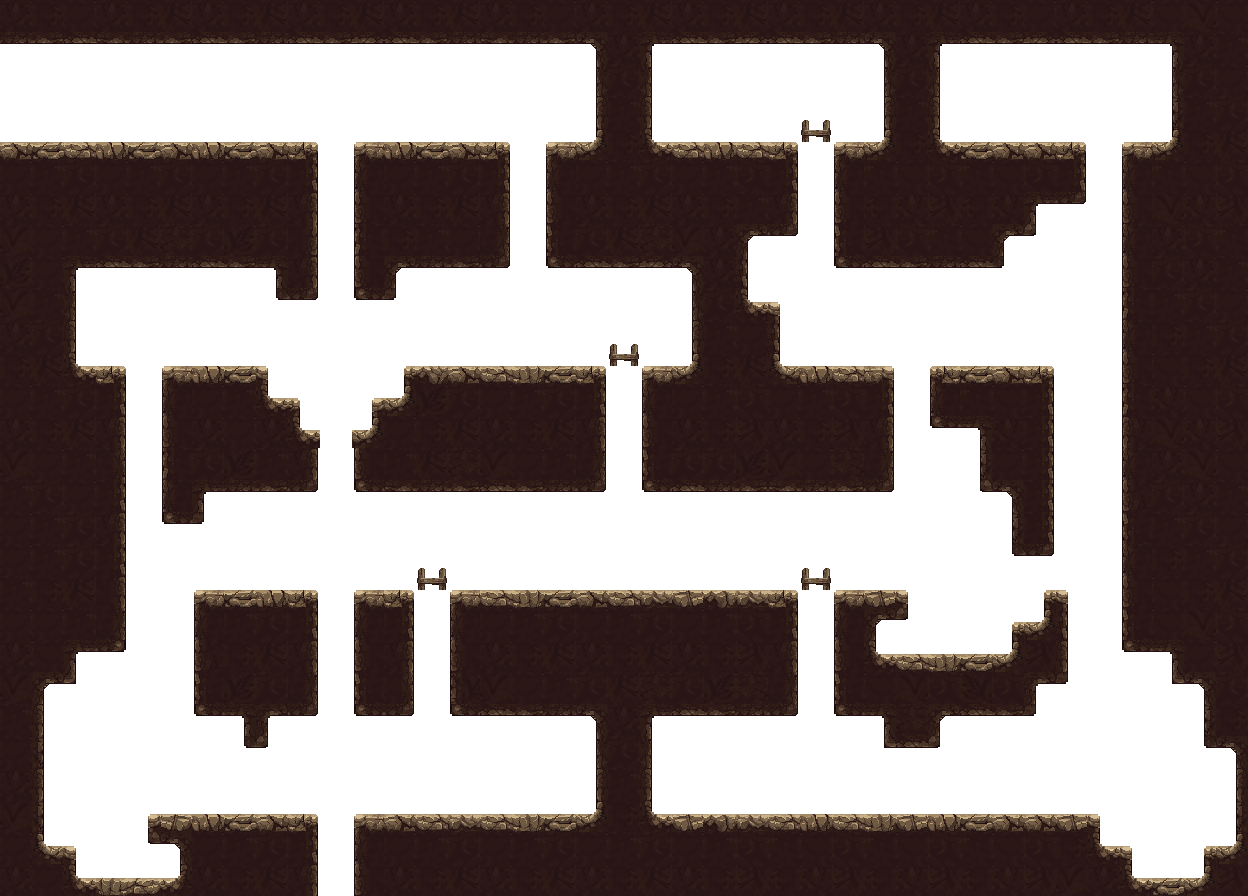
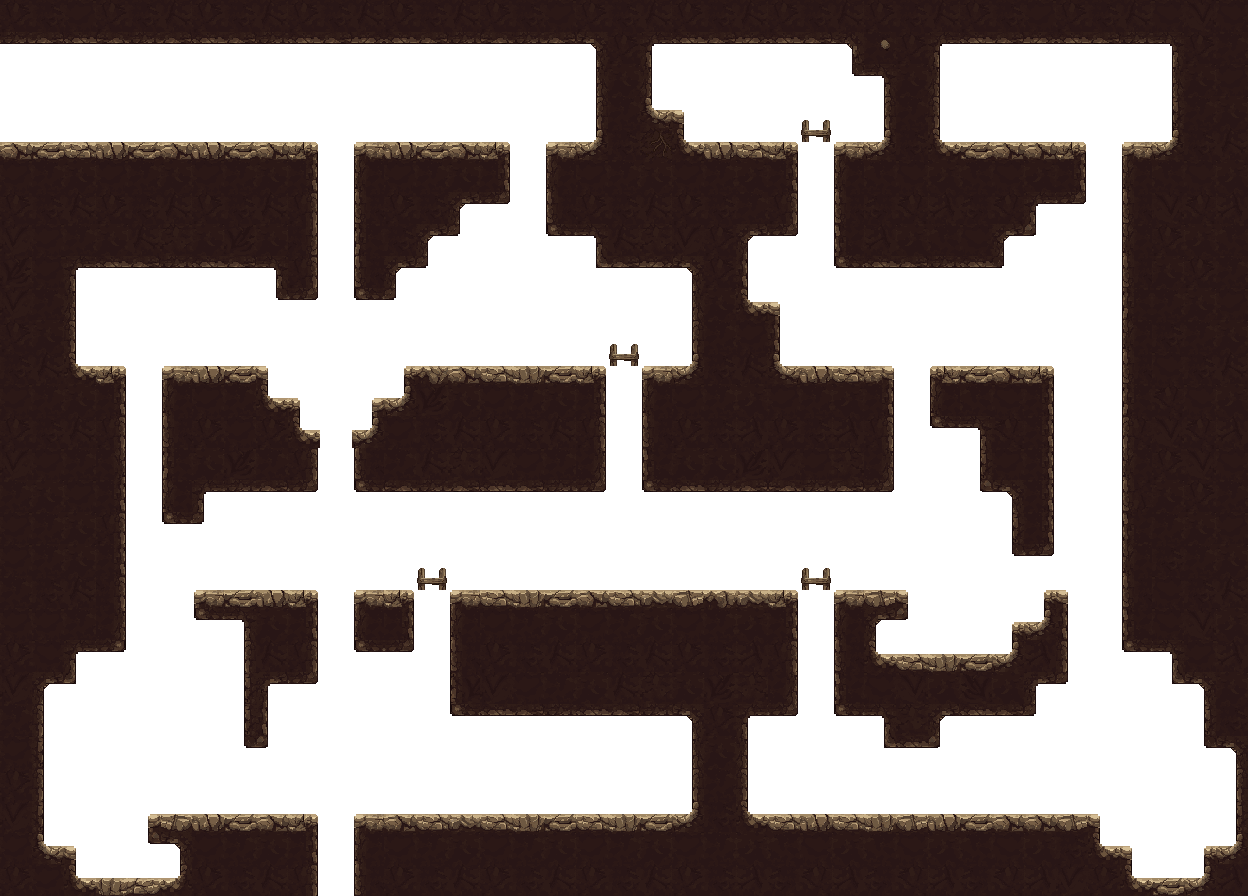
Update world position inputs and direction control labels for improved navigation

diff --git a/css/main.css b/css/main.css
@@ -270,7 +270,7 @@ input {
 }
 
 #position-32:checked ~ .game .world {
-  --world-offset: -1440px;
+  --world-offset: -1248px;
   --world-offset-y: -1568px;
 }
 
@@ -648,14 +648,20 @@ input {
   transition-duration: 1.2s;
 }
 
+#position-32--from-31:checked ~ .game .world {
+  --world-offset: -1248px;
+  --world-offset-y: -1568px;
+  transition-duration: 1.2s;
+}
+
 #position-30--from-31:checked ~ .game .world {
   --world-offset: -864px;
   --world-offset-y: -1568px;
   transition-duration: 1.2s;
 }
 
-#position-33--from-32:checked ~ .game .world {
-  --world-offset: -1632px;
+#position-31--from-32:checked ~ .game .world {
+  --world-offset: -1056px;
   --world-offset-y: -1568px;
   transition-duration: 1.2s;
 }
@@ -668,12 +674,6 @@ input {
 
 #position-34--from-33:checked ~ .game .world {
   --world-offset: -1824px;
-  --world-offset-y: -1568px;
-  transition-duration: 1.2s;
-}
-
-#position-32--from-33:checked ~ .game .world {
-  --world-offset: -1440px;
   --world-offset-y: -1568px;
   transition-duration: 1.2s;
 }
@@ -2129,6 +2129,15 @@ input {
   transition-duration: 1.2s;
 }
 
+#position-32--from-31:checked ~ .game .player__sprite {
+  background-image: url("../assets/characters/with-backpack/base/base-right.png");
+  animation: player-walk-from-31-to-32 0.6s steps(1, end) 2;
+}
+
+#position-32--from-31:checked ~ .game .player {
+  transition-duration: 1.2s;
+}
+
 #position-30--from-31:checked ~ .game .player__sprite {
   background-image: url("../assets/characters/with-backpack/base/base-left.png");
   animation: player-walk-from-31-to-30 0.6s steps(1, end) 2;
@@ -2138,12 +2147,12 @@ input {
   transition-duration: 1.2s;
 }
 
-#position-33--from-32:checked ~ .game .player__sprite {
-  background-image: url("../assets/characters/with-backpack/base/base-right.png");
-  animation: player-walk-from-32-to-33 0.6s steps(1, end) 2;
+#position-31--from-32:checked ~ .game .player__sprite {
+  background-image: url("../assets/characters/with-backpack/base/base-left.png");
+  animation: player-walk-from-32-to-31 0.6s steps(1, end) 2;
 }
 
-#position-33--from-32:checked ~ .game .player {
+#position-31--from-32:checked ~ .game .player {
   transition-duration: 1.2s;
 }
 
@@ -2162,15 +2171,6 @@ input {
 }
 
 #position-34--from-33:checked ~ .game .player {
-  transition-duration: 1.2s;
-}
-
-#position-32--from-33:checked ~ .game .player__sprite {
-  background-image: url("../assets/characters/with-backpack/base/base-left.png");
-  animation: player-walk-from-33-to-32 0.6s steps(1, end) 2;
-}
-
-#position-32--from-33:checked ~ .game .player {
   transition-duration: 1.2s;
 }
 
@@ -2963,6 +2963,20 @@ input {
     background-image: url("../assets/characters/with-backpack/walk/walk-left/frame_004.png");
   }
 }
+@keyframes player-walk-from-31-to-32 {
+  0% {
+    background-image: url("../assets/characters/with-backpack/walk/walk-right/frame_001.png");
+  }
+  25% {
+    background-image: url("../assets/characters/with-backpack/walk/walk-right/frame_002.png");
+  }
+  50% {
+    background-image: url("../assets/characters/with-backpack/walk/walk-right/frame_003.png");
+  }
+  75%, 100% {
+    background-image: url("../assets/characters/with-backpack/walk/walk-right/frame_004.png");
+  }
+}
 @keyframes player-walk-from-31-to-30 {
   0% {
     background-image: url("../assets/characters/with-backpack/walk/walk-left/frame_001.png");
@@ -2977,18 +2991,18 @@ input {
     background-image: url("../assets/characters/with-backpack/walk/walk-left/frame_004.png");
   }
 }
-@keyframes player-walk-from-32-to-33 {
+@keyframes player-walk-from-32-to-31 {
   0% {
-    background-image: url("../assets/characters/with-backpack/walk/walk-right/frame_001.png");
+    background-image: url("../assets/characters/with-backpack/walk/walk-left/frame_001.png");
   }
   25% {
-    background-image: url("../assets/characters/with-backpack/walk/walk-right/frame_002.png");
+    background-image: url("../assets/characters/with-backpack/walk/walk-left/frame_002.png");
   }
   50% {
-    background-image: url("../assets/characters/with-backpack/walk/walk-right/frame_003.png");
+    background-image: url("../assets/characters/with-backpack/walk/walk-left/frame_003.png");
   }
   75%, 100% {
-    background-image: url("../assets/characters/with-backpack/walk/walk-right/frame_004.png");
+    background-image: url("../assets/characters/with-backpack/walk/walk-left/frame_004.png");
   }
 }
 @keyframes player-walk-from-33-to-34 {
@@ -3003,20 +3017,6 @@ input {
   }
   75%, 100% {
     background-image: url("../assets/characters/with-backpack/walk/walk-right/frame_004.png");
-  }
-}
-@keyframes player-walk-from-33-to-32 {
-  0% {
-    background-image: url("../assets/characters/with-backpack/walk/walk-left/frame_001.png");
-  }
-  25% {
-    background-image: url("../assets/characters/with-backpack/walk/walk-left/frame_002.png");
-  }
-  50% {
-    background-image: url("../assets/characters/with-backpack/walk/walk-left/frame_003.png");
-  }
-  75%, 100% {
-    background-image: url("../assets/characters/with-backpack/walk/walk-left/frame_004.png");
   }
 }
 @keyframes player-walk-from-34-to-35 {
@@ -3926,6 +3926,13 @@ input {
   transition: opacity 0s 0.6s, visibility 0s 0.6s;
 }
 
+#position-31:checked ~ .game .direction-controls__button--right[data-position="31"] {
+  opacity: 1;
+  visibility: visible;
+  pointer-events: auto;
+  transition: opacity 0s 0.6s, visibility 0s 0.6s;
+}
+
 #position-31:checked ~ .game .direction-controls__button--left[data-position="31"] {
   opacity: 1;
   visibility: visible;
@@ -3933,7 +3940,7 @@ input {
   transition: opacity 0s 0.6s, visibility 0s 0.6s;
 }
 
-#position-32:checked ~ .game .direction-controls__button--right[data-position="32"] {
+#position-32:checked ~ .game .direction-controls__button--left[data-position="32"] {
   opacity: 1;
   visibility: visible;
   pointer-events: auto;
@@ -3948,13 +3955,6 @@ input {
 }
 
 #position-33:checked ~ .game .direction-controls__button--right[data-position="33"] {
-  opacity: 1;
-  visibility: visible;
-  pointer-events: auto;
-  transition: opacity 0s 0.6s, visibility 0s 0.6s;
-}
-
-#position-33:checked ~ .game .direction-controls__button--left[data-position="33"] {
   opacity: 1;
   visibility: visible;
   pointer-events: auto;
@@ -4633,13 +4633,6 @@ input {
   transition: opacity 0s 1.8s, visibility 0s 1.8s;
 }
 
-#position-33--from-25:checked ~ .game .direction-controls__button--left[data-position="33"] {
-  opacity: 1;
-  visibility: visible;
-  pointer-events: auto;
-  transition: opacity 0s 1.8s, visibility 0s 1.8s;
-}
-
 #position-24--from-25:checked ~ .game .direction-controls__button--right[data-position="24"] {
   opacity: 1;
   visibility: visible;
@@ -4801,6 +4794,13 @@ input {
   transition: opacity 0s 1.8s, visibility 0s 1.8s;
 }
 
+#position-31--from-30:checked ~ .game .direction-controls__button--right[data-position="31"] {
+  opacity: 1;
+  visibility: visible;
+  pointer-events: auto;
+  transition: opacity 0s 1.2s, visibility 0s 1.2s;
+}
+
 #position-31--from-30:checked ~ .game .direction-controls__button--left[data-position="31"] {
   opacity: 1;
   visibility: visible;
@@ -4816,6 +4816,13 @@ input {
 }
 
 #position-29--from-30:checked ~ .game .direction-controls__button--left[data-position="29"] {
+  opacity: 1;
+  visibility: visible;
+  pointer-events: auto;
+  transition: opacity 0s 1.2s, visibility 0s 1.2s;
+}
+
+#position-32--from-31:checked ~ .game .direction-controls__button--left[data-position="32"] {
   opacity: 1;
   visibility: visible;
   pointer-events: auto;
@@ -4843,21 +4850,14 @@ input {
   transition: opacity 0s 1.2s, visibility 0s 1.2s;
 }
 
-#position-33--from-32:checked ~ .game .direction-controls__button--up[data-position="33"] {
+#position-31--from-32:checked ~ .game .direction-controls__button--right[data-position="31"] {
   opacity: 1;
   visibility: visible;
   pointer-events: auto;
   transition: opacity 0s 1.2s, visibility 0s 1.2s;
 }
 
-#position-33--from-32:checked ~ .game .direction-controls__button--right[data-position="33"] {
-  opacity: 1;
-  visibility: visible;
-  pointer-events: auto;
-  transition: opacity 0s 1.2s, visibility 0s 1.2s;
-}
-
-#position-33--from-32:checked ~ .game .direction-controls__button--left[data-position="33"] {
+#position-31--from-32:checked ~ .game .direction-controls__button--left[data-position="31"] {
   opacity: 1;
   visibility: visible;
   pointer-events: auto;
@@ -4899,13 +4899,6 @@ input {
   transition: opacity 0s 1.2s, visibility 0s 1.2s;
 }
 
-#position-32--from-33:checked ~ .game .direction-controls__button--right[data-position="32"] {
-  opacity: 1;
-  visibility: visible;
-  pointer-events: auto;
-  transition: opacity 0s 1.2s, visibility 0s 1.2s;
-}
-
 #lift-10-36-unlocked:checked ~ #position-35--from-34:checked ~ .game .direction-controls__button--right[data-position="35"] {
   opacity: 1;
   visibility: visible;
@@ -4928,13 +4921,6 @@ input {
 }
 
 #position-33--from-34:checked ~ .game .direction-controls__button--right[data-position="33"] {
-  opacity: 1;
-  visibility: visible;
-  pointer-events: auto;
-  transition: opacity 0s 1.2s, visibility 0s 1.2s;
-}
-
-#position-33--from-34:checked ~ .game .direction-controls__button--left[data-position="33"] {
   opacity: 1;
   visibility: visible;
   pointer-events: auto;

diff --git a/index.html b/index.html
@@ -219,8 +219,8 @@
 <input type="radio" name="position" id="position-28--from-29" class="world-position-input" />
 <input type="radio" name="position" id="position-21--from-30" class="world-position-input" />
 <input type="radio" name="position" id="position-31--from-30" class="world-position-input" />
-<input type="radio" name="position" id="position-29--from-30" class="world-position-input" />
-<input type="radio" name="position" id="position-30--from-31" class="world-position-input" />
+<input type="radio" name="position" id="position-32--from-31" class="world-position-input" />
+<input type="radio" name="position" id="position-31--from-32" class="world-position-input" />
 <input type="radio" name="position" id="position-33--from-32" class="world-position-input" />
 <input type="radio" name="position" id="position-25--from-33" class="world-position-input" />
 <input type="radio" name="position" id="position-34--from-33" class="world-position-input" />
@@ -599,16 +599,16 @@
     data-position="30" for="position-31--from-30">▶</label>
 <label class="direction-controls__button direction-controls__button--left direction-controls__button--edge"
     data-position="30" for="position-29--from-30">◀</label>
+<label class="direction-controls__button direction-controls__button--right direction-controls__button--edge"
+    data-position="31" for="position-32--from-31">▶</label>
 <label class="direction-controls__button direction-controls__button--left direction-controls__button--edge"
     data-position="31" for="position-30--from-31">◀</label>
-<label class="direction-controls__button direction-controls__button--right direction-controls__button--edge"
-    data-position="32" for="position-33--from-32">▶</label>
+<label class="direction-controls__button direction-controls__button--left direction-controls__button--edge"
+    data-position="32" for="position-31--from-32">◀</label>
 <label class="direction-controls__button direction-controls__button--up direction-controls__button--edge"
     data-position="33" for="position-25--from-33">▲</label>
 <label class="direction-controls__button direction-controls__button--right direction-controls__button--edge"
     data-position="33" for="position-34--from-33">▶</label>
-<label class="direction-controls__button direction-controls__button--left direction-controls__button--edge"
-    data-position="33" for="position-32--from-33">◀</label>
 <label class="direction-controls__button direction-controls__button--right direction-controls__button--edge"
     data-position="34" for="position-35--from-34">▶</label>
 <label class="direction-controls__button direction-controls__button--left direction-controls__button--edge"
